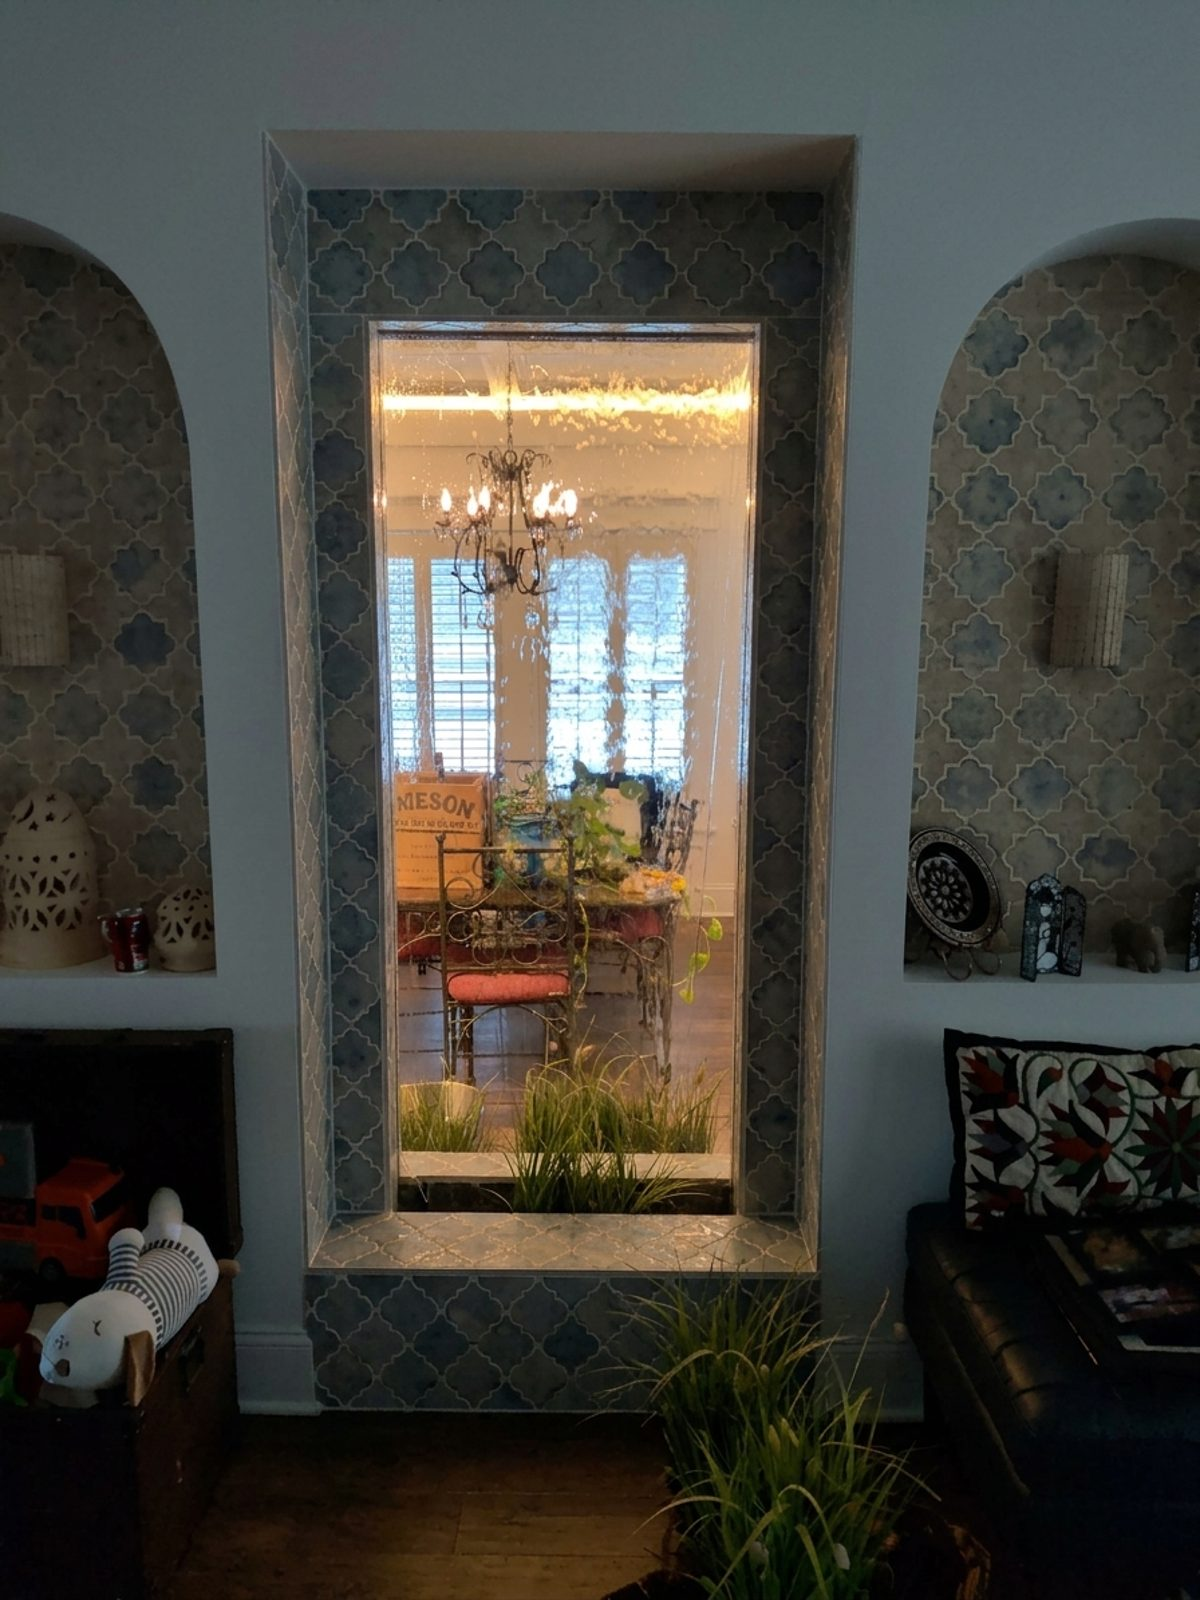
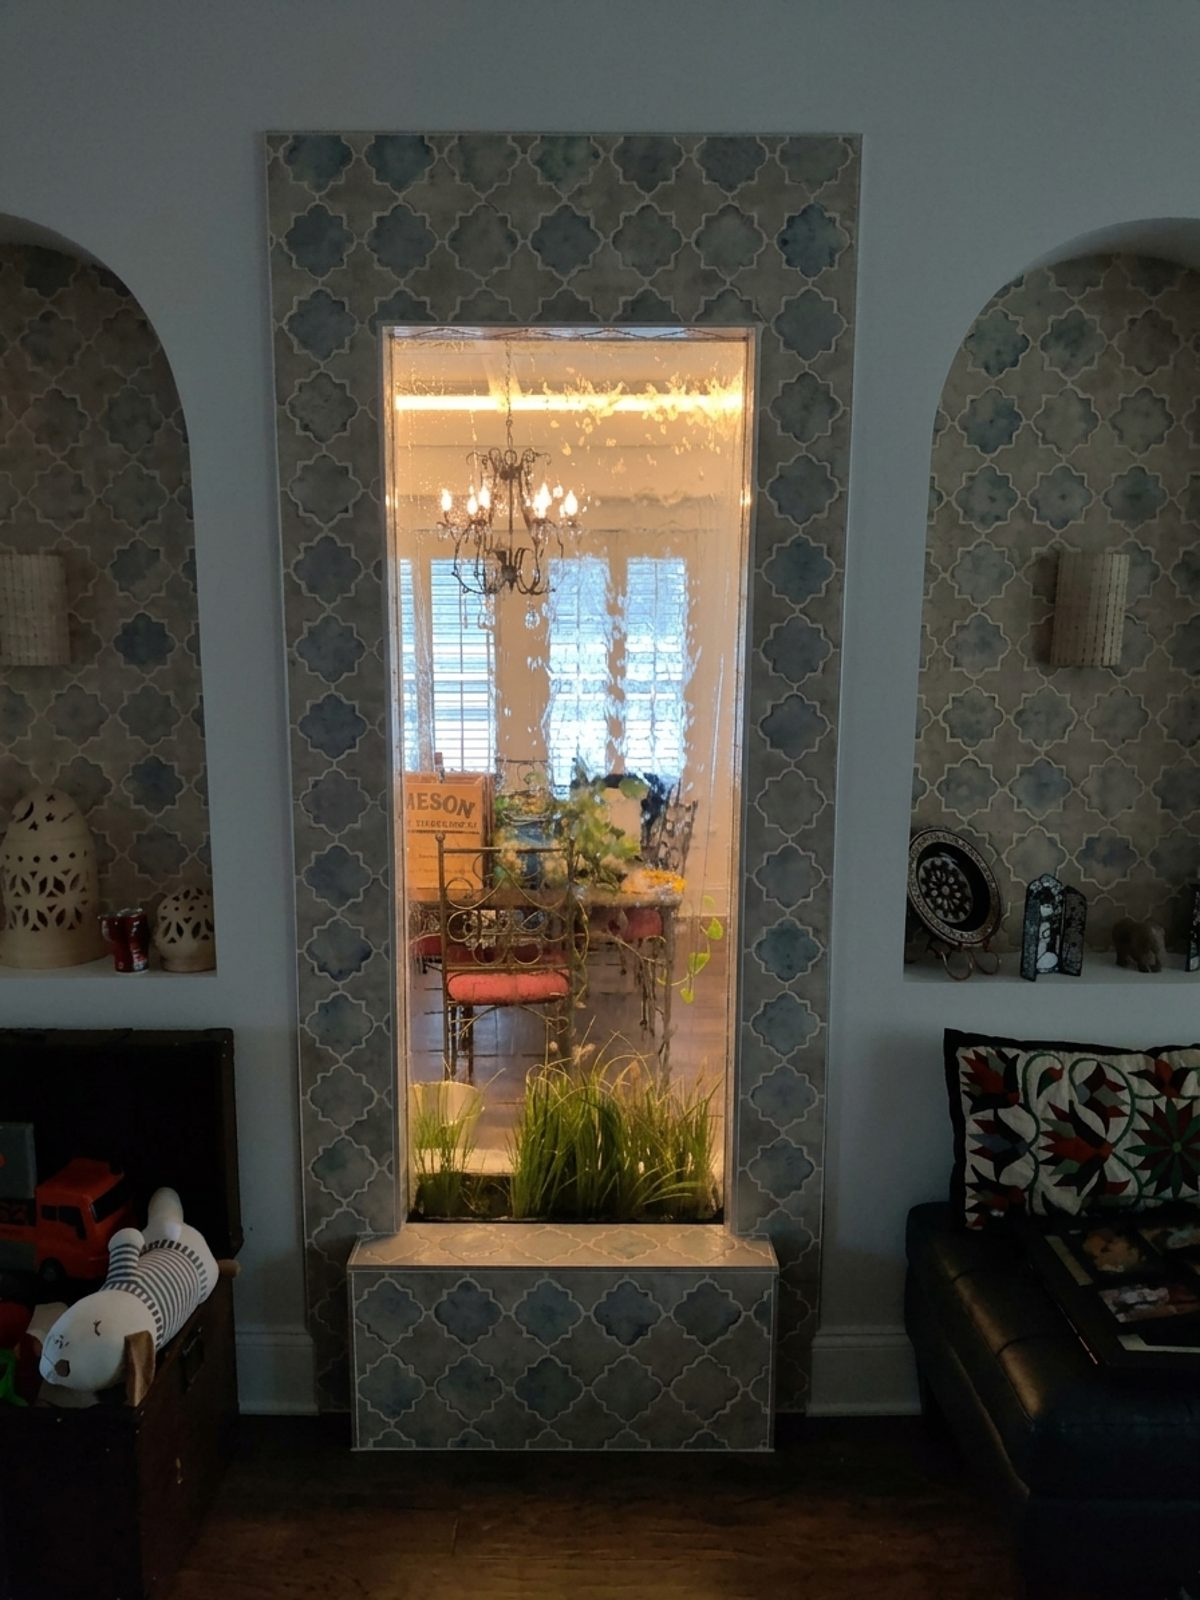
Emma's waterfall page: full wall-to-wall, floor-to-ceiling versions; estimates raised for the larger area
Claude-Session: https://claude.ai/code/session_01YXcUTCVaxQYCoghA18zKvq

Changed region(s): [[0.2158, 0.0625, 0.8325, 1.0], [0.8325, 0.8438, 0.8633, 0.875]]

diff --git a/assets/quotes/emma-waterfall/index.html b/assets/quotes/emma-waterfall/index.html
@@ -23,50 +23,50 @@ footer{text-align:center;color:var(--muted);font-size:14px;padding:22px 0 0}
 <header><div class="wrap"><img src="/assets/quotes/emma-waterfall/logo.svg" alt="OBX Lot Solutions"><a href="tel:+12522075985">(252) 207-5985</a></div></header>
 <div class="wrap">
   <h1>Your waterfall, built in.</h1>
-  <p class="lede">Four ways to hide the metal frame, the base box and the cord while keeping the water and the glass exactly where they are. Each one is drawn on your own room. Pick the one you like and text us; we come out, measure, and confirm the number in writing before any work starts.</p>
-  <div class="before"><img src="/assets/quotes/emma-waterfall/before.jpg" alt="The waterfall today"><p><b>Today.</b> Black metal frame, black base, pump housing and cord all visible. Everything below covers the sides and the base fully; the top is covered on options 1, 2 and 4, and open on option 3 if you prefer the light.</p></div>
+  <p class="lede">Four finishes for the whole opening, wall to wall and floor to ceiling, with the glass and the water set in the middle and the metal frame, base box and cord gone. Each one is drawn on your own room. Pick the one you like and text us; we come out, measure, and confirm the number in writing before any work starts.</p>
+  <div class="before"><img src="/assets/quotes/emma-waterfall/before.jpg" alt="The waterfall today"><p><b>Today.</b> Black metal frame, black base, pump housing and cord all visible. Every option below faces the entire opening, floor to ceiling, so the waterfall becomes part of the wall.</p></div>
 
   <div class="opt"><img src="/assets/quotes/emma-waterfall/1-arabesque.jpg" alt="Option 1: arabesque tile surround"><div class="b">
     <span class="tag">Option 1 · matches the niches</span><h2>Arabesque tile surround</h2>
-    <p>The same gray-blue arabesque tile that lines your two niches, carried across the sides, the header and the base. The waterfall reads as a third niche with water in it.</p>
-    <p><b>Includes:</b> framed surround over the existing unit, cement board, tile, grout, a sealed joint at the glass, the cord routed out of sight, the base box tiled with your grasses back in it.</p>
+    <p>The same gray-blue arabesque tile that lines your two niches, across the whole opening from floor to ceiling, with a matching tiled base. The waterfall reads as a third niche with water in it.</p>
+    <p><b>Includes:</b> a framed wall built over the existing unit, cement board, tile, grout, a sealed joint at the glass, the cord routed out of sight, the base tiled with your grasses back in it.</p>
     <p><b>Good to know:</b> the price depends on finding your tile. If you have a leftover box from the niches, that solves it; otherwise we source the closest match and confirm before ordering.</p>
-    <div class="price"><div><b>$1,500 to $2,100</b><br><small>tile sourcing sets where it lands</small></div><small>About 2 days on site</small></div>
+    <div class="price"><div><b>$2,100 to $2,800</b><br><small>tile sourcing sets where it lands</small></div><small>About 3 days on site</small></div>
     <a class="btn g" href="sms:+12522075985?&body=Waterfall%20surround%3A%20I%20like%20option%201%2C%20the%20arabesque%20tile.">Pick option 1</a>
   </div></div>
 
   <div class="opt"><img src="/assets/quotes/emma-waterfall/2-zellige.jpg" alt="Option 2: white zellige tile surround"><div class="b">
     <span class="tag">Option 2 · brightest</span><h2>White zellige with a brass edge</h2>
-    <p>Handmade glossy white tile on the sides, header and base, with a thin brass trim where the tile meets the glass. Clean and bright; the water and the light do the work.</p>
-    <p><b>Includes:</b> framed surround, cement board, zellige tile, brass edge trim, grout, sealed joint at the glass, cord hidden, base box tiled with the grasses back in.</p>
+    <p>Handmade glossy white tile across the whole opening and the base, with a thin brass trim where the tile meets the glass. Clean and bright; the water and the light do the work.</p>
+    <p><b>Includes:</b> framed wall, cement board, zellige tile, brass edge trim, grout, sealed joint at the glass, cord hidden, base tiled with the grasses back in.</p>
     <p><b>Good to know:</b> zellige is handmade, so tiles vary a little in tone and surface. That variation is the look.</p>
-    <div class="price"><div><b>$1,900 to $2,400</b><br><small>zellige is the priciest tile of the four</small></div><small>About 2 days on site</small></div>
+    <div class="price"><div><b>$2,600 to $3,300</b><br><small>zellige is the priciest tile of the four</small></div><small>About 3 days on site</small></div>
     <a class="btn g" href="sms:+12522075985?&body=Waterfall%20surround%3A%20I%20like%20option%202%2C%20the%20white%20zellige.">Pick option 2</a>
   </div></div>
 
   <div class="opt"><img src="/assets/quotes/emma-waterfall/3-marble.jpg" alt="Option 3: marble ledger surround"><div class="b">
     <span class="tag">Option 3 · spa look</span><h2>Marble ledger with a marble sill</h2>
-    <p>Split-face white and gray marble strips on the sides and base, with a solid marble sill cap on the base for the grasses to sit on. The top stays open so the light spills over the stone.</p>
-    <p><b>Includes:</b> framed surround, cement board, marble ledger panels, marble sill, sealed joint at the glass, cord hidden, base box faced with the grasses back in.</p>
+    <p>Split-face white and gray marble strips across the whole opening, with a solid marble sill cap on the base for the grasses to sit on.</p>
+    <p><b>Includes:</b> framed wall, cement board, marble ledger panels, marble sill, sealer, sealed joint at the glass, cord hidden, base faced with the grasses back in.</p>
     <p><b>Good to know:</b> ledger panels go up quickly; the sill is the careful part. Marble wants a sealer, which is included.</p>
-    <div class="price"><div><b>$1,450 to $1,950</b></div><small>About 1.5 days on site</small></div>
+    <div class="price"><div><b>$2,000 to $2,600</b></div><small>About 2.5 days on site</small></div>
     <a class="btn g" href="sms:+12522075985?&body=Waterfall%20surround%3A%20I%20like%20option%203%2C%20the%20marble%20ledger.">Pick option 3</a>
   </div></div>
 
   <div class="opt"><img src="/assets/quotes/emma-waterfall/4-stone.jpg" alt="Option 4: stacked stone surround"><div class="b">
     <span class="tag">Option 4 · warmest</span><h2>Stacked stone, top to bottom</h2>
-    <p>Warm gray ledgestone on the sides, the header and the base, with the light glowing from behind the top. Reads like a feature wall with water running down the middle.</p>
-    <p><b>Includes:</b> framed surround, cement board, stone veneer panels, corner pieces, sealed joint at the glass, cord hidden, base box faced with the grasses back in.</p>
-    <p><b>Good to know:</b> stone is the heaviest of the four, so the surround is built as its own frame and never hangs on the water unit.</p>
-    <div class="price"><div><b>$1,400 to $1,900</b></div><small>About 2 days on site</small></div>
+    <p>Warm gray ledgestone across the whole opening and the base. Reads like a stone feature wall with water running down the middle.</p>
+    <p><b>Includes:</b> framed wall, cement board, stone veneer panels, corner pieces, sealed joint at the glass, cord hidden, base faced with the grasses back in.</p>
+    <p><b>Good to know:</b> stone is the heaviest of the four, so the wall is built as its own frame and never hangs on the water unit.</p>
+    <div class="price"><div><b>$1,900 to $2,500</b></div><small>About 3 days on site</small></div>
     <a class="btn g" href="sms:+12522075985?&body=Waterfall%20surround%3A%20I%20like%20option%204%2C%20the%20stacked%20stone.">Pick option 4</a>
   </div></div>
 
   <div class="notes"><h3>How the numbers work</h3><ul>
-    <li>Every option is a surround that sits over your existing unit. We do not drill into the waterfall, and it keeps running as it does now.</li>
+    <li>Every option is a framed wall that sits over your existing unit. We do not drill into the waterfall, and it keeps running as it does now.</li>
     <li>Estimates cover materials and labor. We measure on site and confirm the exact price in writing before ordering anything.</li>
     <li>Tile and stone need a day to cure before the joint at the glass is sealed, so plan on the water being off for about two days.</li>
-    <li>Want a mix, like the arabesque tile with the top left open? Text us. It is easy to price a variation.</li>
+    <li>Want a mix, like marble with a brass edge? Text us. It is easy to price a variation.</li>
   </ul>
   <a class="btn" href="sms:+12522075985?&body=Waterfall%20surround%3A%20">Text us about these</a></div>
   <footer>OBX Lot Solutions · Local, family &amp; veteran-owned · (252) 207-5985</footer>
